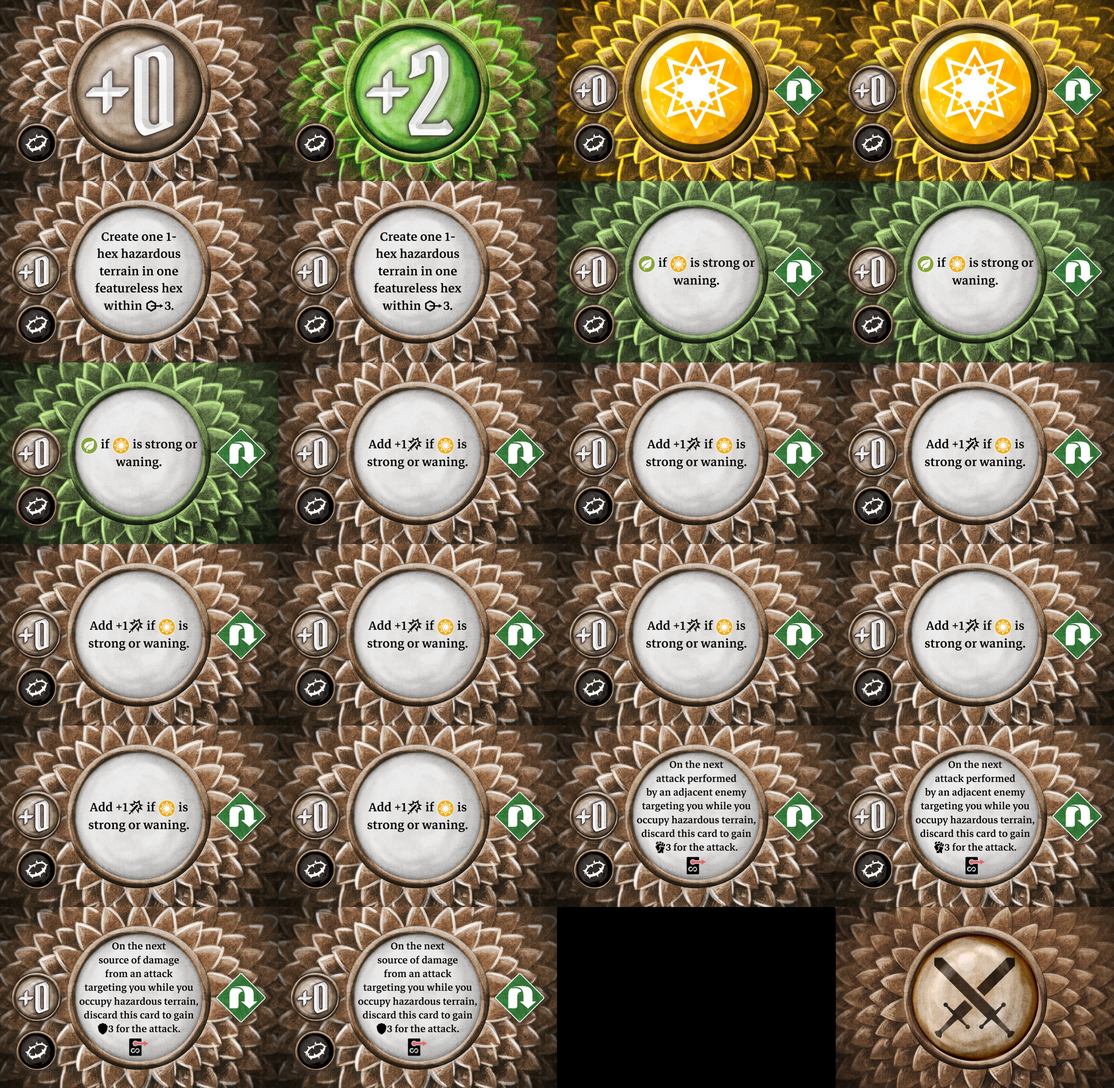
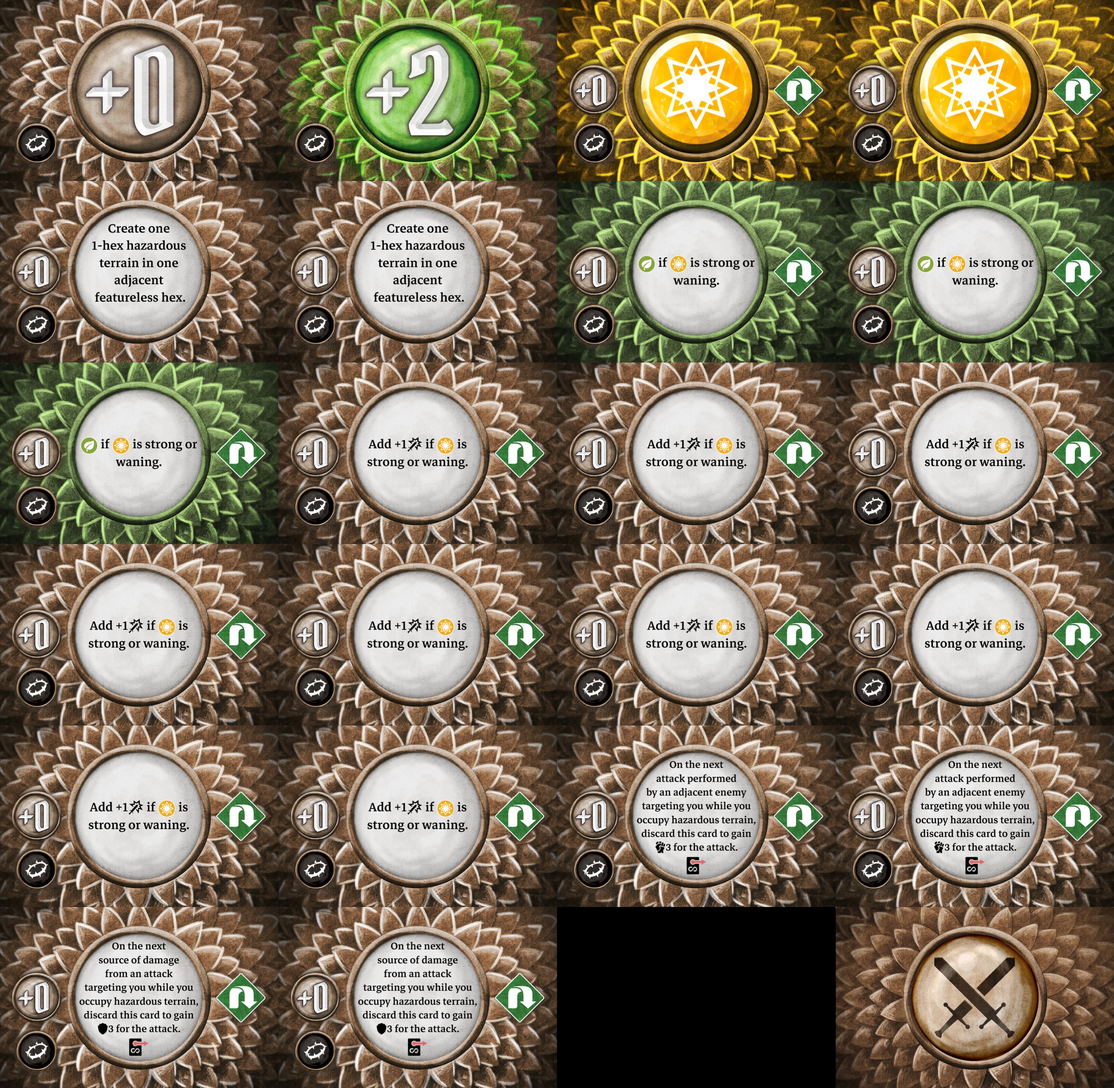
fixed amds again and lashingthorns bugfix

Changed region(s): [[0.3408, 0.1864, 0.4337, 0.2797], [0.0929, 0.1864, 0.1859, 0.2797]]

diff --git a/Game/Content/Classes/Thornreaper/Cards/05_LashingThorns.cs b/Game/Content/Classes/Thornreaper/Cards/05_LashingThorns.cs
@@ -40,12 +40,13 @@ public class LashingThorns : ThornreaperCardModel<LashingThorns.CardTop, Lashing
 						{
 							await AbilityCmd.GainXP(parameters.Performer, 1);
 							await AbilityCmd.InfuseElement(parameters.AbilityState, Element.Light);
+							parameters.AbilityState.SetCustomValue(this, "TargetOnHazardous", true);
 							parameters.AbilityState.SingleTargetAdjustAttackValue(1);
 						}
 					))
 				.WithGetTargetingHintText(state =>
 					{
-						if (GetLightElementState() is ElementState.Strong or ElementState.Waning)
+						if (state.GetCustomValue<bool>(this, "TargetOnHazardous"))
 						{
 							return $"Select a target for {Icons.HintText(Icons.Attack)}3";
 						}
